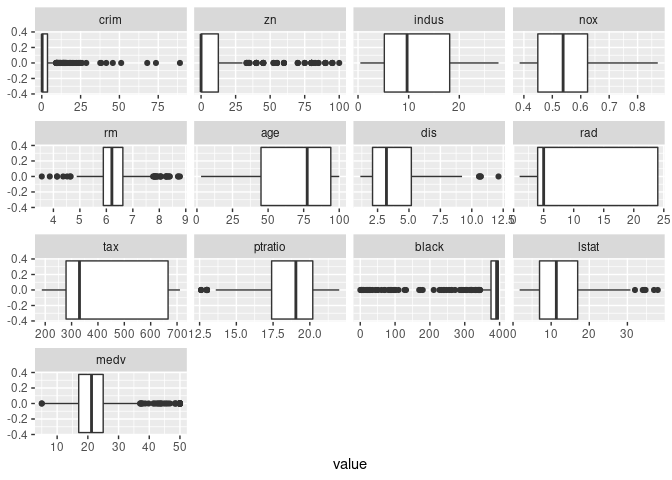
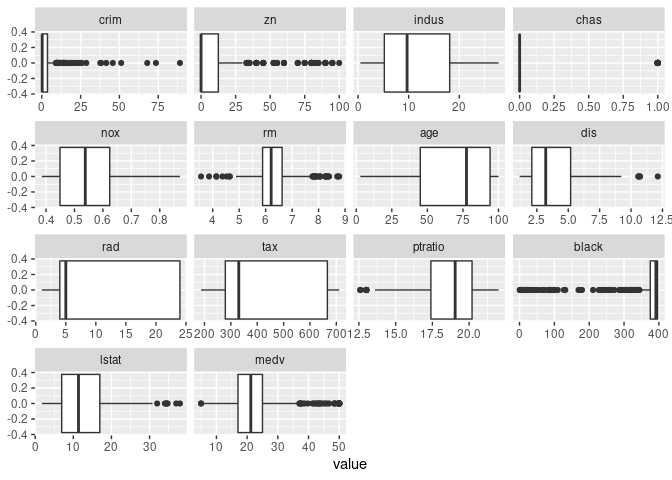
added more investigation tried filtering data got worse results

diff --git a/BostonHousing.md b/BostonHousing.md
@@ -56,7 +56,7 @@ so it’s best described as binary in this instance. I’m going to change
 it to a factor so it doesn’t mess with any of our calculations later.
 
 ``` r
-df$chas <- as.factor(df$chas)
+#df$chas <- as.factor(df$chas)
 ```
 
 Rad is listed as an index of accessibility, so I take this as being
@@ -66,34 +66,34 @@ equivalent to a continuous variable like the others.
 summary(df)
 ```
 
-    ##       crim                zn             indus       chas         nox        
-    ##  Min.   : 0.00632   Min.   :  0.00   Min.   : 0.46   0:471   Min.   :0.3850  
-    ##  1st Qu.: 0.08205   1st Qu.:  0.00   1st Qu.: 5.19   1: 35   1st Qu.:0.4490  
-    ##  Median : 0.25651   Median :  0.00   Median : 9.69           Median :0.5380  
-    ##  Mean   : 3.61352   Mean   : 11.36   Mean   :11.14           Mean   :0.5547  
-    ##  3rd Qu.: 3.67708   3rd Qu.: 12.50   3rd Qu.:18.10           3rd Qu.:0.6240  
-    ##  Max.   :88.97620   Max.   :100.00   Max.   :27.74           Max.   :0.8710  
-    ##        rm             age              dis              rad        
-    ##  Min.   :3.561   Min.   :  2.90   Min.   : 1.130   Min.   : 1.000  
-    ##  1st Qu.:5.886   1st Qu.: 45.02   1st Qu.: 2.100   1st Qu.: 4.000  
-    ##  Median :6.208   Median : 77.50   Median : 3.207   Median : 5.000  
-    ##  Mean   :6.285   Mean   : 68.57   Mean   : 3.795   Mean   : 9.549  
-    ##  3rd Qu.:6.623   3rd Qu.: 94.08   3rd Qu.: 5.188   3rd Qu.:24.000  
-    ##  Max.   :8.780   Max.   :100.00   Max.   :12.127   Max.   :24.000  
-    ##       tax           ptratio          black            lstat      
-    ##  Min.   :187.0   Min.   :12.60   Min.   :  0.32   Min.   : 1.73  
-    ##  1st Qu.:279.0   1st Qu.:17.40   1st Qu.:375.38   1st Qu.: 6.95  
-    ##  Median :330.0   Median :19.05   Median :391.44   Median :11.36  
-    ##  Mean   :408.2   Mean   :18.46   Mean   :356.67   Mean   :12.65  
-    ##  3rd Qu.:666.0   3rd Qu.:20.20   3rd Qu.:396.23   3rd Qu.:16.95  
-    ##  Max.   :711.0   Max.   :22.00   Max.   :396.90   Max.   :37.97  
-    ##       medv      
-    ##  Min.   : 5.00  
-    ##  1st Qu.:17.02  
-    ##  Median :21.20  
-    ##  Mean   :22.53  
-    ##  3rd Qu.:25.00  
-    ##  Max.   :50.00
+    ##       crim                zn             indus            chas        
+    ##  Min.   : 0.00632   Min.   :  0.00   Min.   : 0.46   Min.   :0.00000  
+    ##  1st Qu.: 0.08205   1st Qu.:  0.00   1st Qu.: 5.19   1st Qu.:0.00000  
+    ##  Median : 0.25651   Median :  0.00   Median : 9.69   Median :0.00000  
+    ##  Mean   : 3.61352   Mean   : 11.36   Mean   :11.14   Mean   :0.06917  
+    ##  3rd Qu.: 3.67708   3rd Qu.: 12.50   3rd Qu.:18.10   3rd Qu.:0.00000  
+    ##  Max.   :88.97620   Max.   :100.00   Max.   :27.74   Max.   :1.00000  
+    ##       nox               rm             age              dis        
+    ##  Min.   :0.3850   Min.   :3.561   Min.   :  2.90   Min.   : 1.130  
+    ##  1st Qu.:0.4490   1st Qu.:5.886   1st Qu.: 45.02   1st Qu.: 2.100  
+    ##  Median :0.5380   Median :6.208   Median : 77.50   Median : 3.207  
+    ##  Mean   :0.5547   Mean   :6.285   Mean   : 68.57   Mean   : 3.795  
+    ##  3rd Qu.:0.6240   3rd Qu.:6.623   3rd Qu.: 94.08   3rd Qu.: 5.188  
+    ##  Max.   :0.8710   Max.   :8.780   Max.   :100.00   Max.   :12.127  
+    ##       rad              tax           ptratio          black       
+    ##  Min.   : 1.000   Min.   :187.0   Min.   :12.60   Min.   :  0.32  
+    ##  1st Qu.: 4.000   1st Qu.:279.0   1st Qu.:17.40   1st Qu.:375.38  
+    ##  Median : 5.000   Median :330.0   Median :19.05   Median :391.44  
+    ##  Mean   : 9.549   Mean   :408.2   Mean   :18.46   Mean   :356.67  
+    ##  3rd Qu.:24.000   3rd Qu.:666.0   3rd Qu.:20.20   3rd Qu.:396.23  
+    ##  Max.   :24.000   Max.   :711.0   Max.   :22.00   Max.   :396.90  
+    ##      lstat            medv      
+    ##  Min.   : 1.73   Min.   : 5.00  
+    ##  1st Qu.: 6.95   1st Qu.:17.02  
+    ##  Median :11.36   Median :21.20  
+    ##  Mean   :12.65   Mean   :22.53  
+    ##  3rd Qu.:16.95   3rd Qu.:25.00  
+    ##  Max.   :37.97   Max.   :50.00
 
 This output gives me a few areas I’d like to investigate further. The zn
 and chas variables seem to have a lot of 0s so that’s something I should
@@ -110,7 +110,7 @@ ggplot(d,aes(x = value)) +
     geom_density(aes(y=..count..)) + ylim(0,75)
 ```
 
-    ## Warning: Removed 11 rows containing missing values (geom_bar).
+    ## Warning: Removed 12 rows containing missing values (geom_bar).
 
     ## Warning in max(ids, na.rm = TRUE): no non-missing arguments to max; returning
     ## -Inf
@@ -163,7 +163,7 @@ summary(lm1)
     ## crim        -1.080e-01  3.286e-02  -3.287 0.001087 ** 
     ## zn           4.642e-02  1.373e-02   3.382 0.000778 ***
     ## indus        2.056e-02  6.150e-02   0.334 0.738288    
-    ## chas1        2.687e+00  8.616e-01   3.118 0.001925 ** 
+    ## chas         2.687e+00  8.616e-01   3.118 0.001925 ** 
     ## nox         -1.777e+01  3.820e+00  -4.651 4.25e-06 ***
     ## rm           3.810e+00  4.179e-01   9.116  < 2e-16 ***
     ## age          6.922e-04  1.321e-02   0.052 0.958229    
@@ -281,3 +281,71 @@ Here we can see we’ve improved, we’re now at a RMSE of 3.22 and MAE of
 2.22. Now that we have a baseline on what can be done with minimal
 interactions with the data, can we do any better by going back to the
 data and performing some transformations?
+
+``` r
+cormat <- round(cor(df),2)
+library(reshape2)
+melted_df <- melt(cormat)
+ggplot(data = melted_df, aes(x=Var1, y=Var2, fill=value)) + 
+  geom_tile() +
+  geom_text(aes(Var2, Var1, label = value), color = "black", size = 4) +
+  scale_fill_viridis()
+```
+
+![](BostonHousing_files/figure-gfm/plot_corr_matrix-1.png)<!-- -->
+
+In this heatmap we can see that `tax` and `rad` are very highly
+correlated to one another. Additionaly, `dis` is highly correlated to
+`indus` `nox` and `age`. Just for fun, let’s try running the Stochastic
+Gradient Boosting with `tax`, `indus`, and `nox` removed due to these
+strong correlations.
+
+``` r
+# Create reduced df
+reduced_df <- df %>% select(!c('tax', 'indus', 'nox'))
+# Define training control
+set.seed(123)
+train.control <- trainControl(method = "repeatedcv", 
+                              number = 10, repeats = 3)
+# Train the model
+model <- train(medv ~., data = reduced_df, method = "gbm",
+               trControl = train.control)
+```
+
+``` r
+# Summarize the results
+print(model)
+```
+
+    ## Stochastic Gradient Boosting 
+    ## 
+    ## 506 samples
+    ##  10 predictor
+    ## 
+    ## No pre-processing
+    ## Resampling: Cross-Validated (10 fold, repeated 3 times) 
+    ## Summary of sample sizes: 455, 456, 456, 456, 456, 456, ... 
+    ## Resampling results across tuning parameters:
+    ## 
+    ##   interaction.depth  n.trees  RMSE      Rsquared   MAE     
+    ##   1                   50      4.213892  0.7924049  2.961820
+    ##   1                  100      3.969683  0.8111792  2.752946
+    ##   1                  150      3.940718  0.8149656  2.730455
+    ##   2                   50      3.881693  0.8190385  2.669587
+    ##   2                  100      3.701219  0.8349355  2.564549
+    ##   2                  150      3.650646  0.8394570  2.546108
+    ##   3                   50      3.720281  0.8324462  2.568652
+    ##   3                  100      3.555812  0.8462002  2.464091
+    ##   3                  150      3.463521  0.8538160  2.404940
+    ## 
+    ## Tuning parameter 'shrinkage' was held constant at a value of 0.1
+    ## 
+    ## Tuning parameter 'n.minobsinnode' was held constant at a value of 10
+    ## RMSE was used to select the optimal model using the smallest value.
+    ## The final values used for the model were n.trees = 150, interaction.depth =
+    ##  3, shrinkage = 0.1 and n.minobsinnode = 10.
+
+Our results got worse! RMSE has increased to `3.46` and MAE to `2.40`.
+Unlike linear models, gradient boosting models tend to not get as caught
+up with correlated inputs, so this result is not particularly
+surprising.
